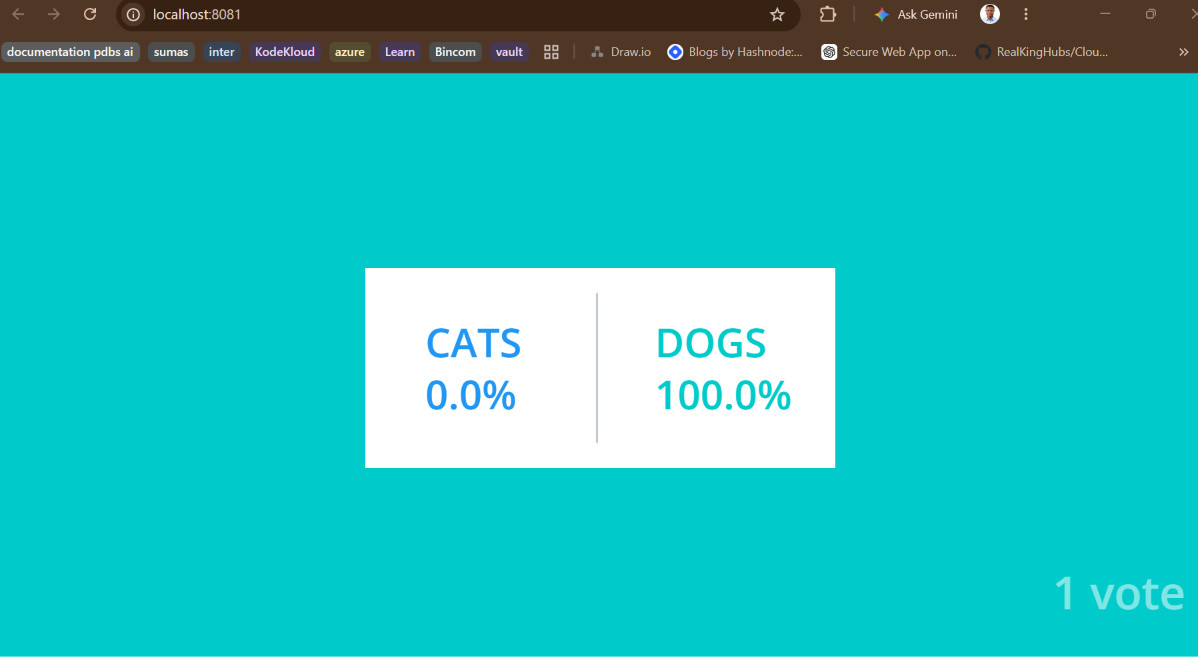
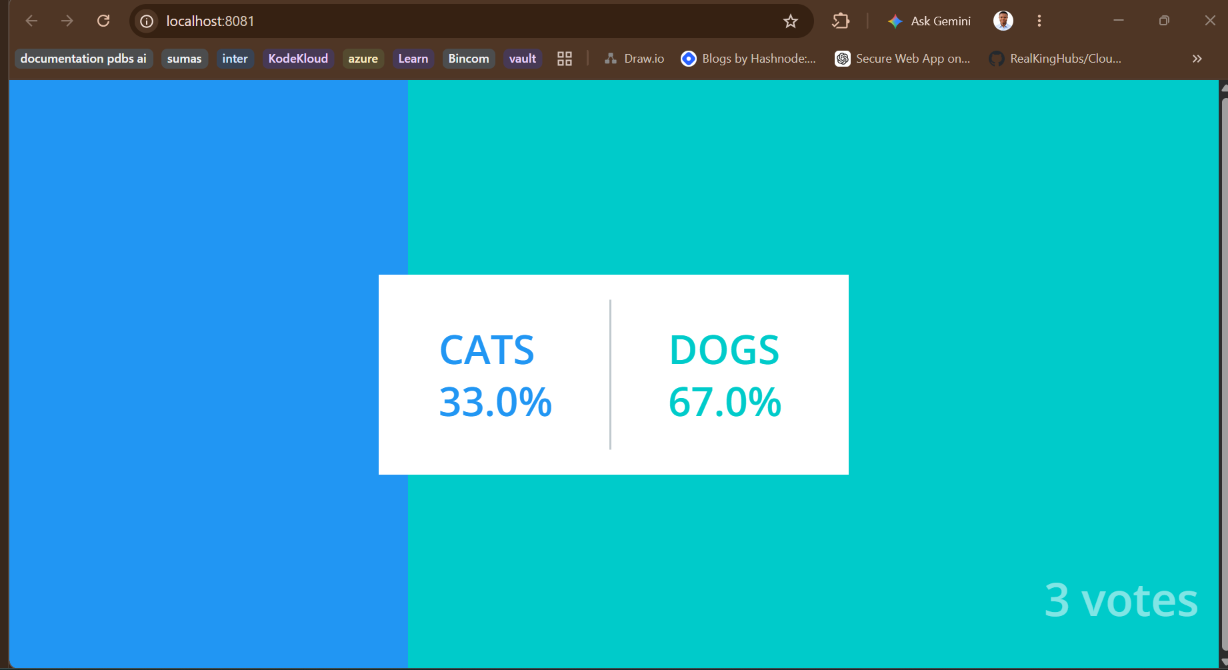
Pass database credentials from Secret to result and worker

diff --git a/result/server.js b/result/server.js
@@ -18,7 +18,10 @@ io.on('connection', function (socket) {
 });
 
 var pool = new Pool({
-  connectionString: 'postgres://postgres:postgres@db/postgres'
+  host: process.env.DB_HOST || "db",
+  user: process.env.DB_USER,
+  password: process.env.DB_PASSWORD,
+  database: process.env.DB_NAME || process.env.DB_USER,
 });
 
 async.retry(

diff --git a/worker/Program.cs b/worker/Program.cs
@@ -16,7 +16,7 @@ namespace Worker
         {
             try
             {
-                var pgsql = OpenDbConnection("Server=db;Username=postgres;Password=postgres;");
+                var pgsql = OpenDbConnection(BuildConnectionString());
                 var redisConn = OpenRedisConnection("redis");
                 var redis = redisConn.GetDatabase();
 
@@ -46,7 +46,7 @@ namespace Worker
                         if (!pgsql.State.Equals(System.Data.ConnectionState.Open))
                         {
                             Console.WriteLine("Reconnecting DB");
-                            pgsql = OpenDbConnection("Server=db;Username=postgres;Password=postgres;");
+                            pgsql = OpenDbConnection(BuildConnectionString());
                         }
                         else
                         { // Normal +1 vote requested
@@ -64,6 +64,23 @@ namespace Worker
                 Console.Error.WriteLine(ex.ToString());
                 return 1;
             }
+        }
+
+        private static string BuildConnectionString()
+        {
+            var host = Environment.GetEnvironmentVariable("DB_HOST") ?? "db";
+            var user = Environment.GetEnvironmentVariable("DB_USER")
+                ?? throw new InvalidOperationException("DB_USER is not set");
+            var password = Environment.GetEnvironmentVariable("DB_PASSWORD")
+                ?? throw new InvalidOperationException("DB_PASSWORD is not set");
+
+            var builder = new NpgsqlConnectionStringBuilder
+            {
+                Host = host,
+                Username = user,
+                Password = password
+            };
+            return builder.ConnectionString;
         }
 
         private static NpgsqlConnection OpenDbConnection(string connectionString)
